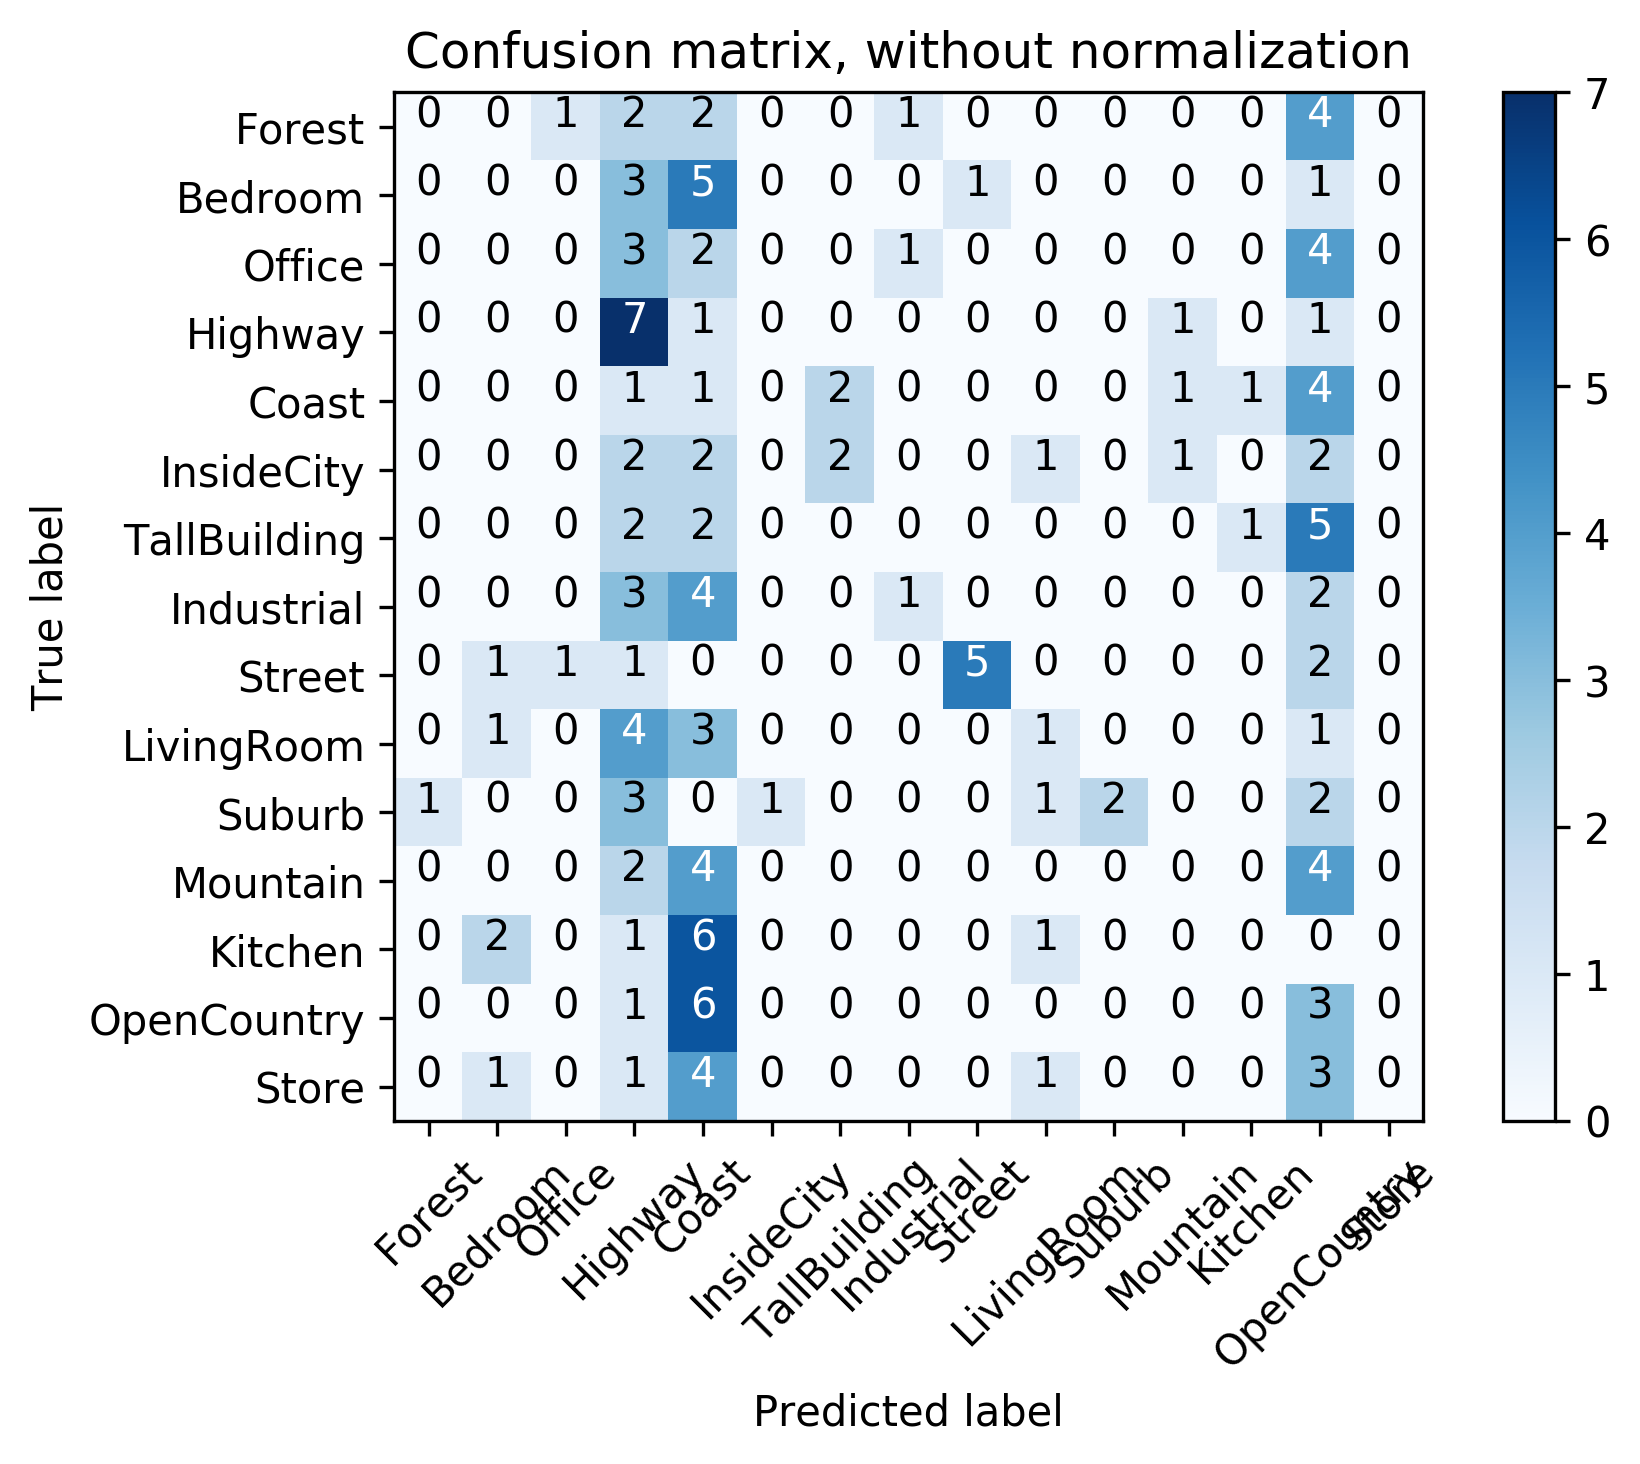
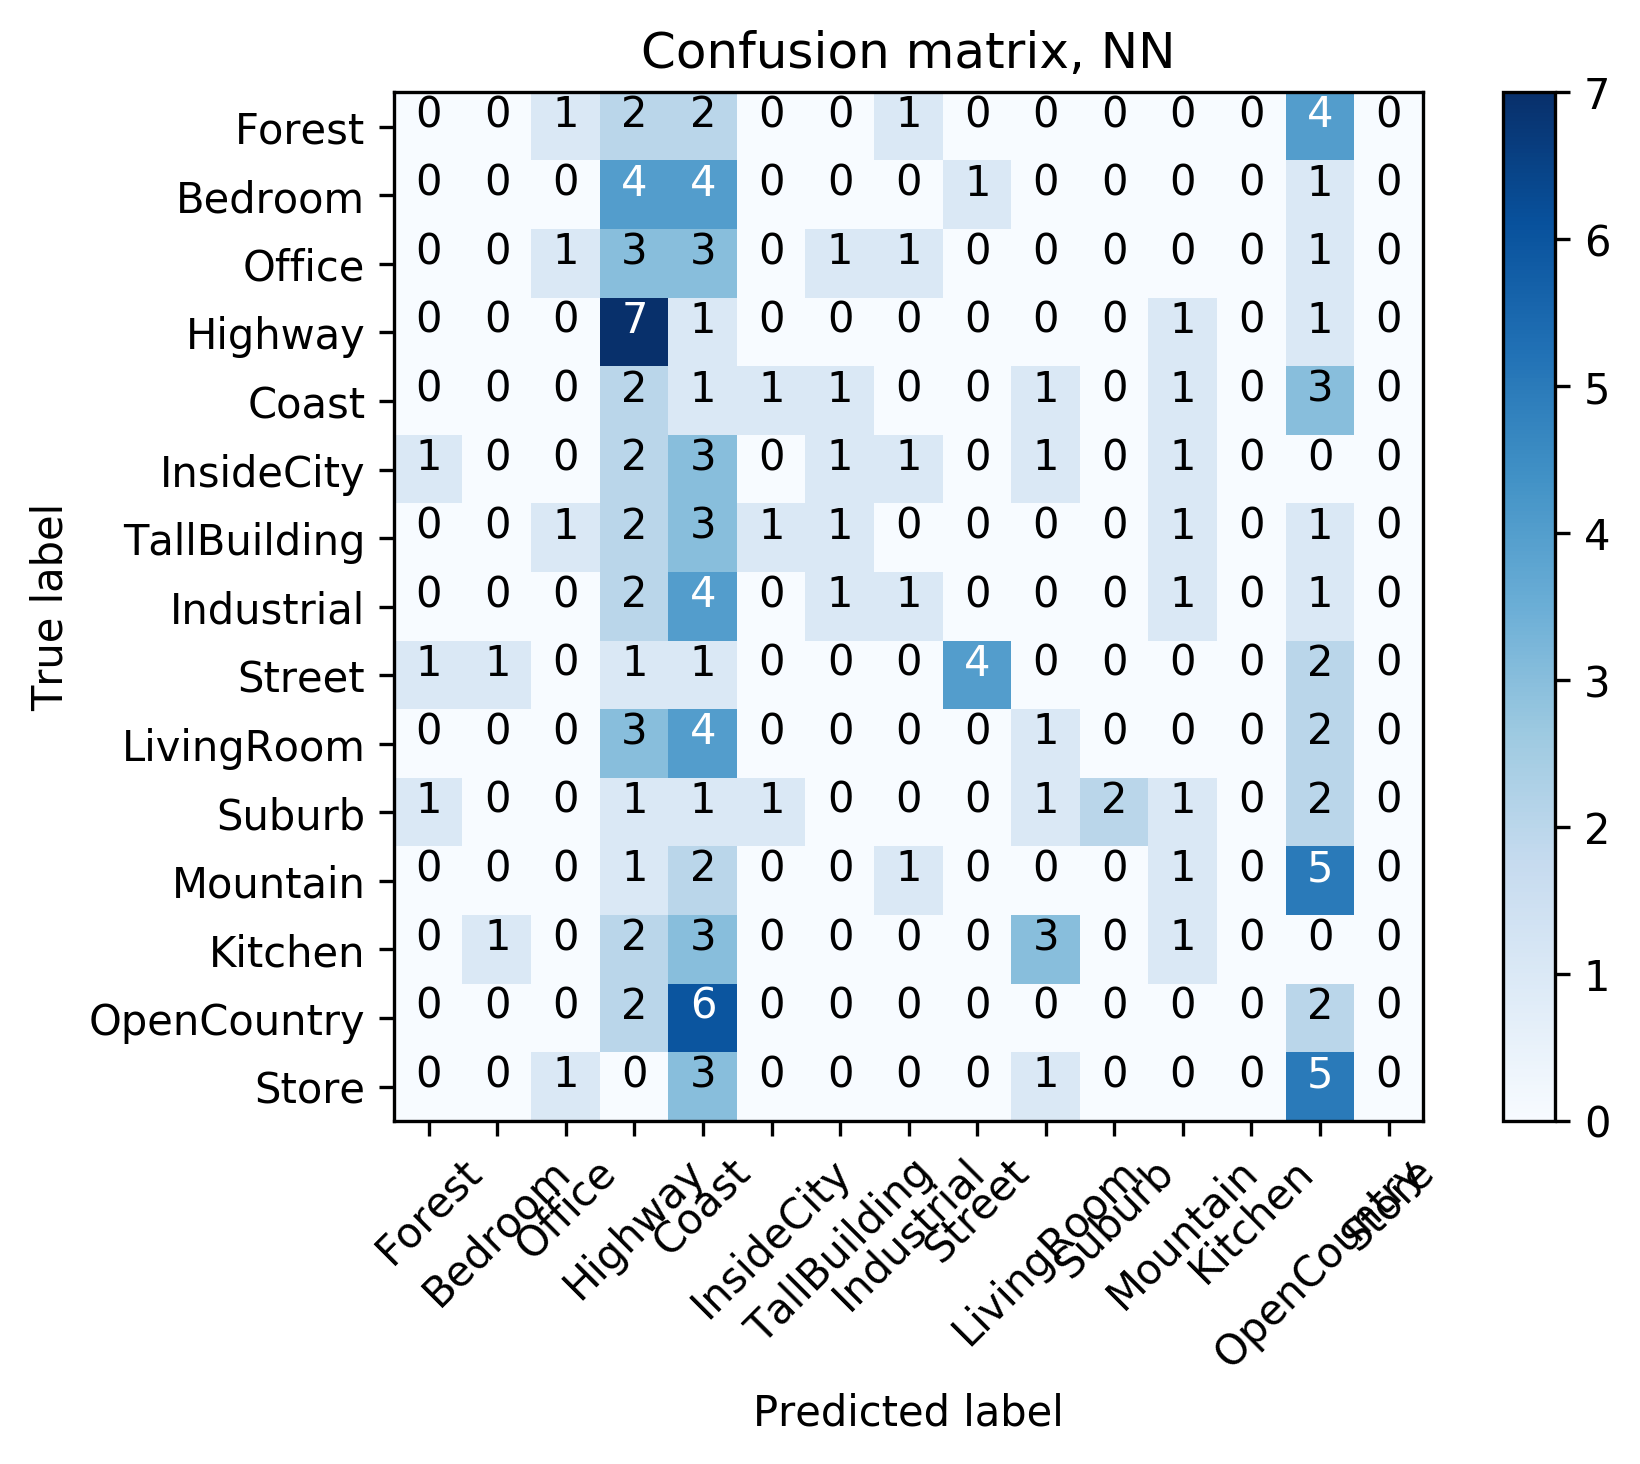
add normalization to task_1, acc up to 14 in NN

diff --git a/categorize-images/task_1.py b/categorize-images/task_1.py
@@ -105,6 +105,14 @@ Xtr = np.asarray([img.flatten() for img in resized_imgs], dtype=float)
 resized_imgs = [cv2.resize(img, (16, 16), interpolation=cv2.INTER_CUBIC) for img in test_img_list]
 Xte = np.asarray([img.flatten() for img in resized_imgs], dtype=float)
 
+# print(np.mean(Xtr, axis=0).shape)
+# print(np.std(Xtr, axis=0).shape)
+Xtr_normalized = (Xtr - np.mean(Xtr, axis=0)) / np.std(Xtr, axis=0)
+Xte_normalized = (Xte - np.mean(Xte, axis=0)) / np.std(Xte, axis=0)
+
+# print(np.mean(Xtr_normalized, axis=0))
+# print(np.std(Xtr_normalized, axis=0))
+
 # # labels
 label_dict = {}
 for i, c in enumerate(img_dirs):
@@ -120,6 +128,12 @@ Yte_predict_L1 = nn.predict(Xte, 'L1')
 print('L1 accuracy: %f' % (np.mean(Yte_predict_L1 == Yte)))
 Yte_predict_L2 = nn.predict(Xte, 'L2')
 print('L2 accuracy: %f' % (np.mean(Yte_predict_L2 == Yte)))
+
+nn.train(Xtr_normalized, Ytr)
+Yte_predict_L1 = nn.predict(Xte_normalized, 'L1')
+print('normalizd L1 accuracy: %f' % (np.mean(Yte_predict_L1 == Yte)))
+Yte_predict_L2 = nn.predict(Xte_normalized, 'L2')
+print('normalized L2 accuracy: %f' % (np.mean(Yte_predict_L2 == Yte)))
 
 # confusion matrix
 from sklearn.metrics import confusion_matrix
@@ -151,7 +165,7 @@ cv_scores = []
 from sklearn.cross_validation import cross_val_score
 for k in neighbors:
     knn = KNeighborsClassifier(n_neighbors=k)
-    scores = cross_val_score(knn, Xtr, Ytr, cv=10, scoring='accuracy')
+    scores = cross_val_score(knn, Xtr_normalized, Ytr, cv=10, scoring='accuracy')
     cv_scores.append(scores.mean())
 
 best_k = np.argmax(cv_scores) * 2 + 1
@@ -168,8 +182,8 @@ plt.savefig('./task_1_out/knn-cv.png', bbox_inches='tight', dpi=300)
 
 # test error with cross validation k
 knn = KNeighborsClassifier(n_neighbors=best_k)
-knn.fit(Xtr, Ytr)
-knn_pred = knn.predict(Xte)
+knn.fit(Xtr_normalized, Ytr)
+knn_pred = knn.predict(Xte_normalized)
 # print(knn_pred)
 print('KNN acc (K = %d): %f' % (best_k, accuracy_score(Yte, knn_pred)))
 

diff --git a/categorize-images/task_4/main.py b/categorize-images/task_4/main.py
@@ -1,0 +1,33 @@
+from __future__ import print_function
+import os
+import sys
+import torch
+import torch.optim as optim
+from torch.utils.data import DataLoader, Dataset
+
+import torchvision
+import torchvision.transforms as transforms
+import torchvision.utils as vutils
+
+import matplotlib
+matplotlib.use('Agg')
+import matplotlib.pyplot as plt
+import numpy as np
+import PIL
+
+from models import WJNet
+
+
+# 1. Loading images and preprocessing (center crop, resize, normalizing, padding zero, random flip)
+
+# 2. Define network, models are stored in model.py
+
+# 3. Define loss function and optimizer
+
+# Repeat 100 epochs
+#   4. Training
+
+#   5. Testing with test data
+
+# 6. Output results
+

diff --git a/categorize-images/task_4/models.py b/categorize-images/task_4/models.py
@@ -18,9 +18,8 @@ class WJNet(nn.Module):
         x = F.relu(self.conv2(x))
         x = self.pool2(x)
         # flatten
+        # x = x.view(-1, self.num_flat_features(x))
         x = F.relu(self.fc1(x))
         x = F.relu(self.fc2(x))
         x = self.fc3(x)
         return x
-net = WJNet()
-print(net)
